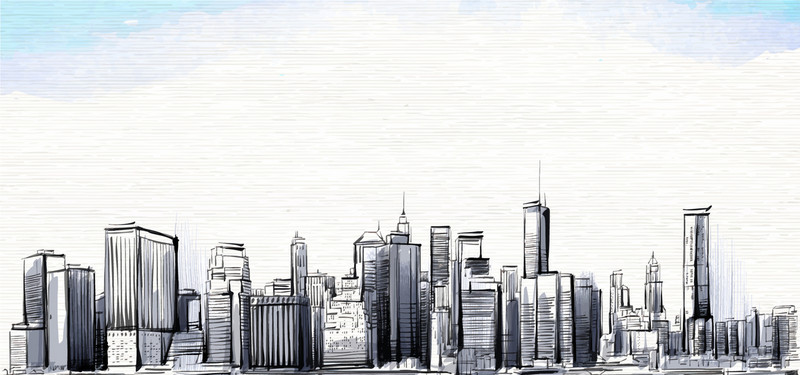
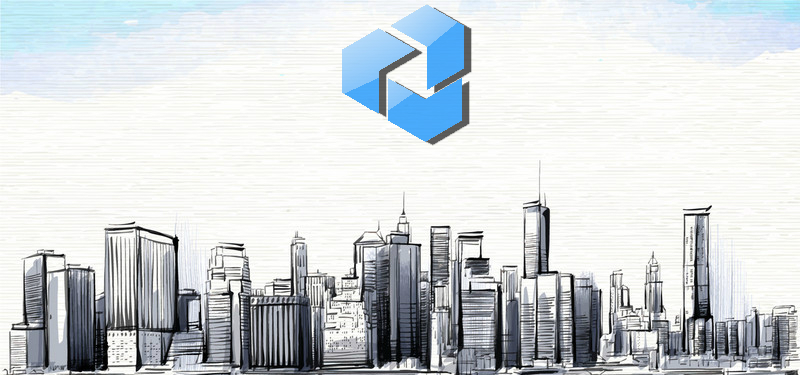
логотип с тенями и изменил панельку

Changed region(s): [[0.4062, 0.0, 0.5938, 0.3813]]

diff --git a/info/templates/home.html b/info/templates/home.html
@@ -40,7 +40,7 @@
     }
 
     .cover{
-        background-color: #83D3F8;
+        background-color: ;
         border-radius: 15px;
     }
 
@@ -50,9 +50,9 @@
         border-radius: 75px;
     }
     .logoTop {
-        left: 33%;
+        left: 28%;
         position: absolute;
-        top: 0px;
+        top: 125px;
         opacity: 0.9;
         filter: alpha(opacity=90);
     }
@@ -81,27 +81,26 @@
     <div class="cover-container"><div class="container">
       <div class="masthead clearfix">
           <div align="center" class="container"><div class="contact">
-            <p align="center"><img width="1100" height="375" src="{% static "media/myexample.jpg" %}" /></p>
+            <p align="center"><img width="" height="" src="{% static "media/myexample.jpg" %}" /></p>
               <div class="logoTop" align="center">
-                  <img width="140" height="135" src="{% static "media/logoTop.jpg" %}" /><br />
                   <font face="Impact" size="15" color="#83D3F8">Строй Консалтинг</font>
               </div>
 
         </div></div>
+          <hr color="#83D3F8" class="my-4"/>
+            <div class="container"><div class="row"> <div class="col-sm-3"></div>
         <div class="inner cover">
-            <div class="container"><div class="row">
-                <a class="nav-link"></a>
+                <div class="container"><div class="row">
       <a class="nav-link" href="#">Главная </a>
         <a class="nav-link" href="#">Link</a>
             <a class="nav-link " href="#">Disabled</a>
-        <div class="col-sm-6"></div>
     <form class="form-inline my-2 my-lg-0">
       <input class="form-control mr-sm-2" type="text" placeholder="Search">
       <button class="btn btn-outline-info my-2 my-sm-0" type="submit">Найти</button>
     </form>
-  </div></div>
-        </div></div></div>
-      <br /></div></div></div>
+                </div></div></div></div>
+        </div></div></div></div></div></div>
+      <hr color="#83D3F8">
 
 
 
